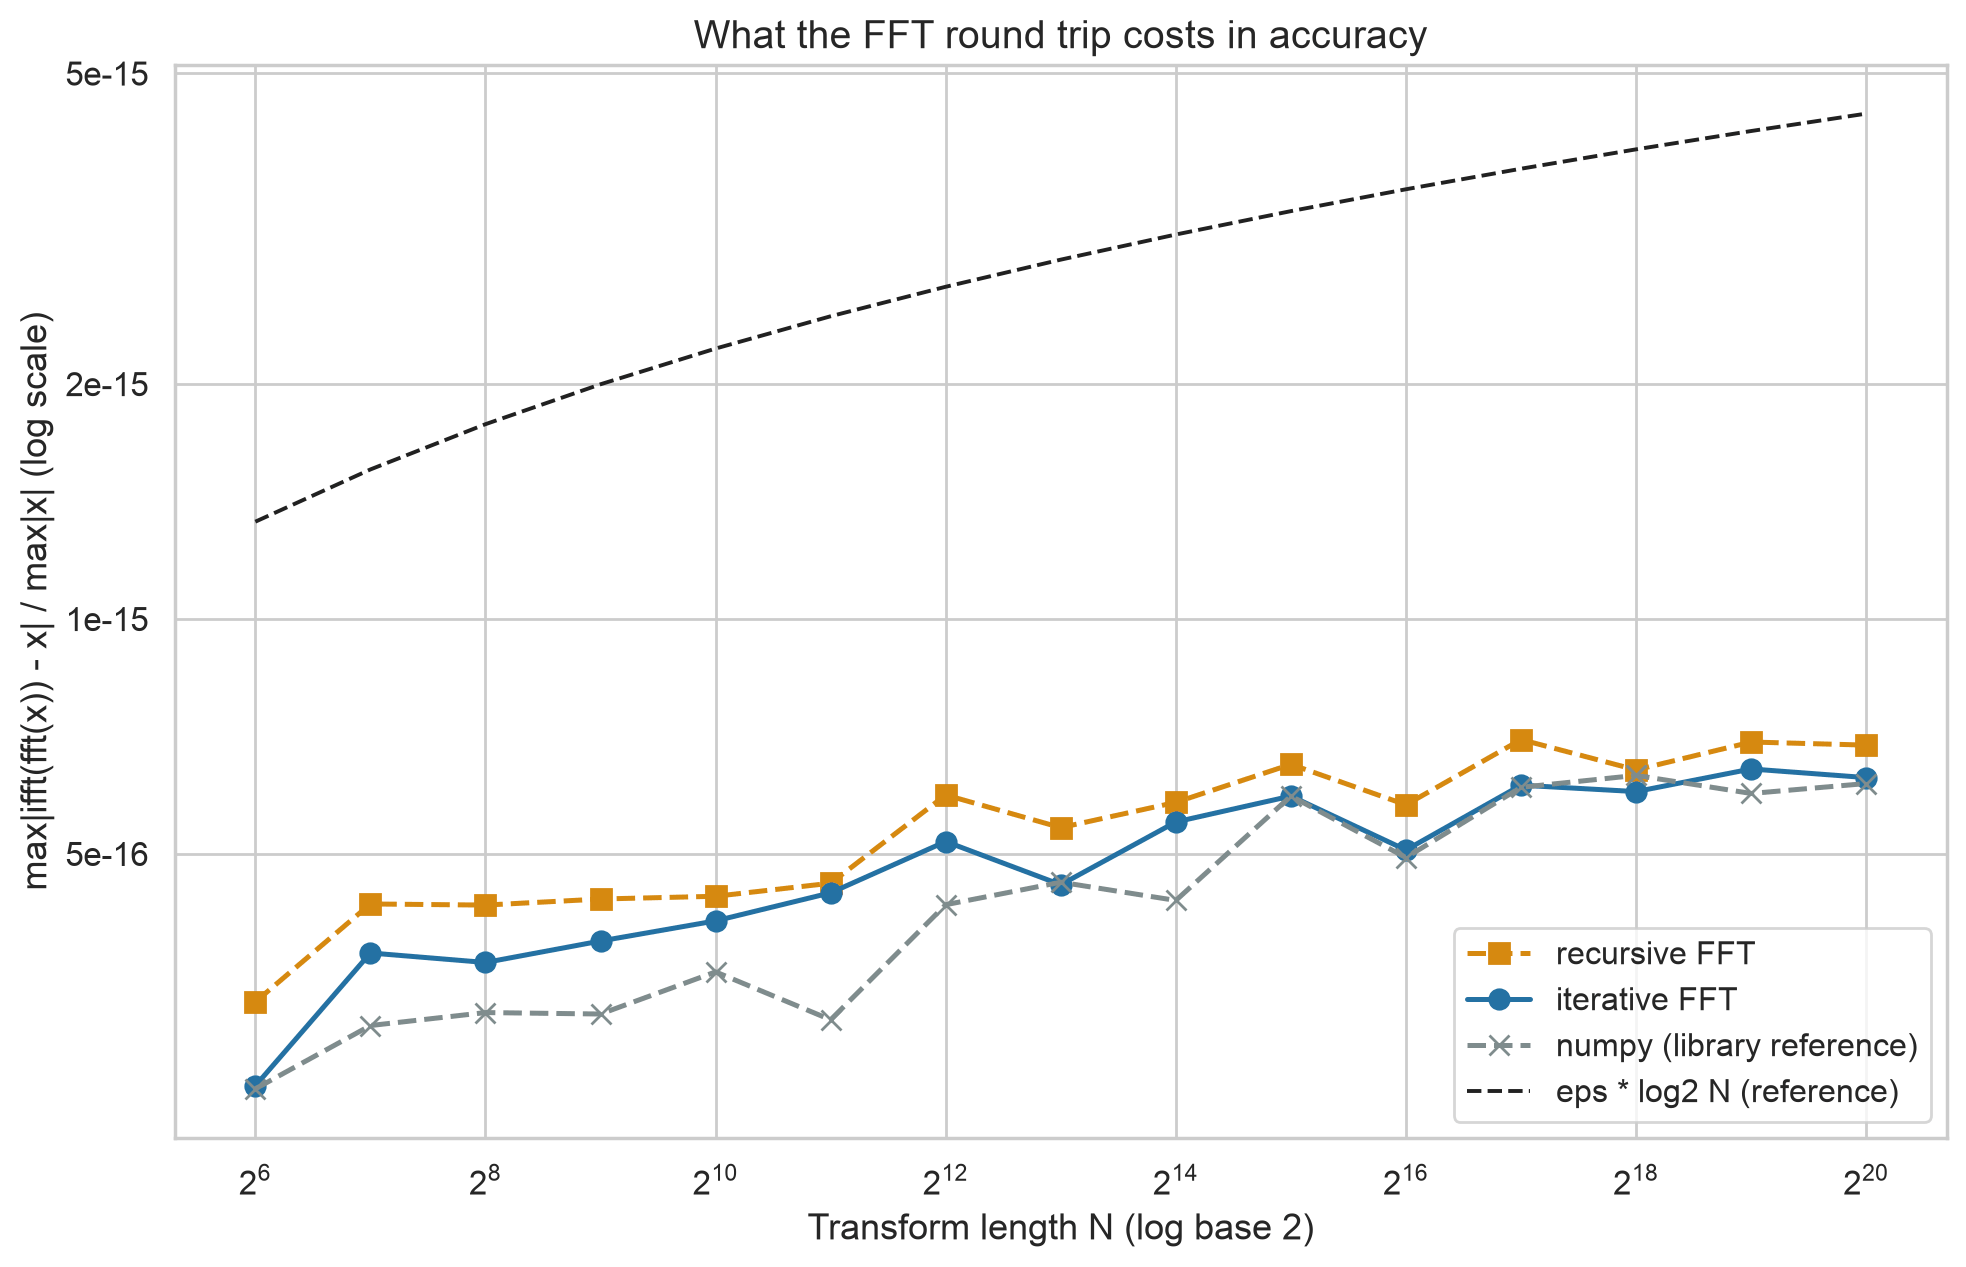
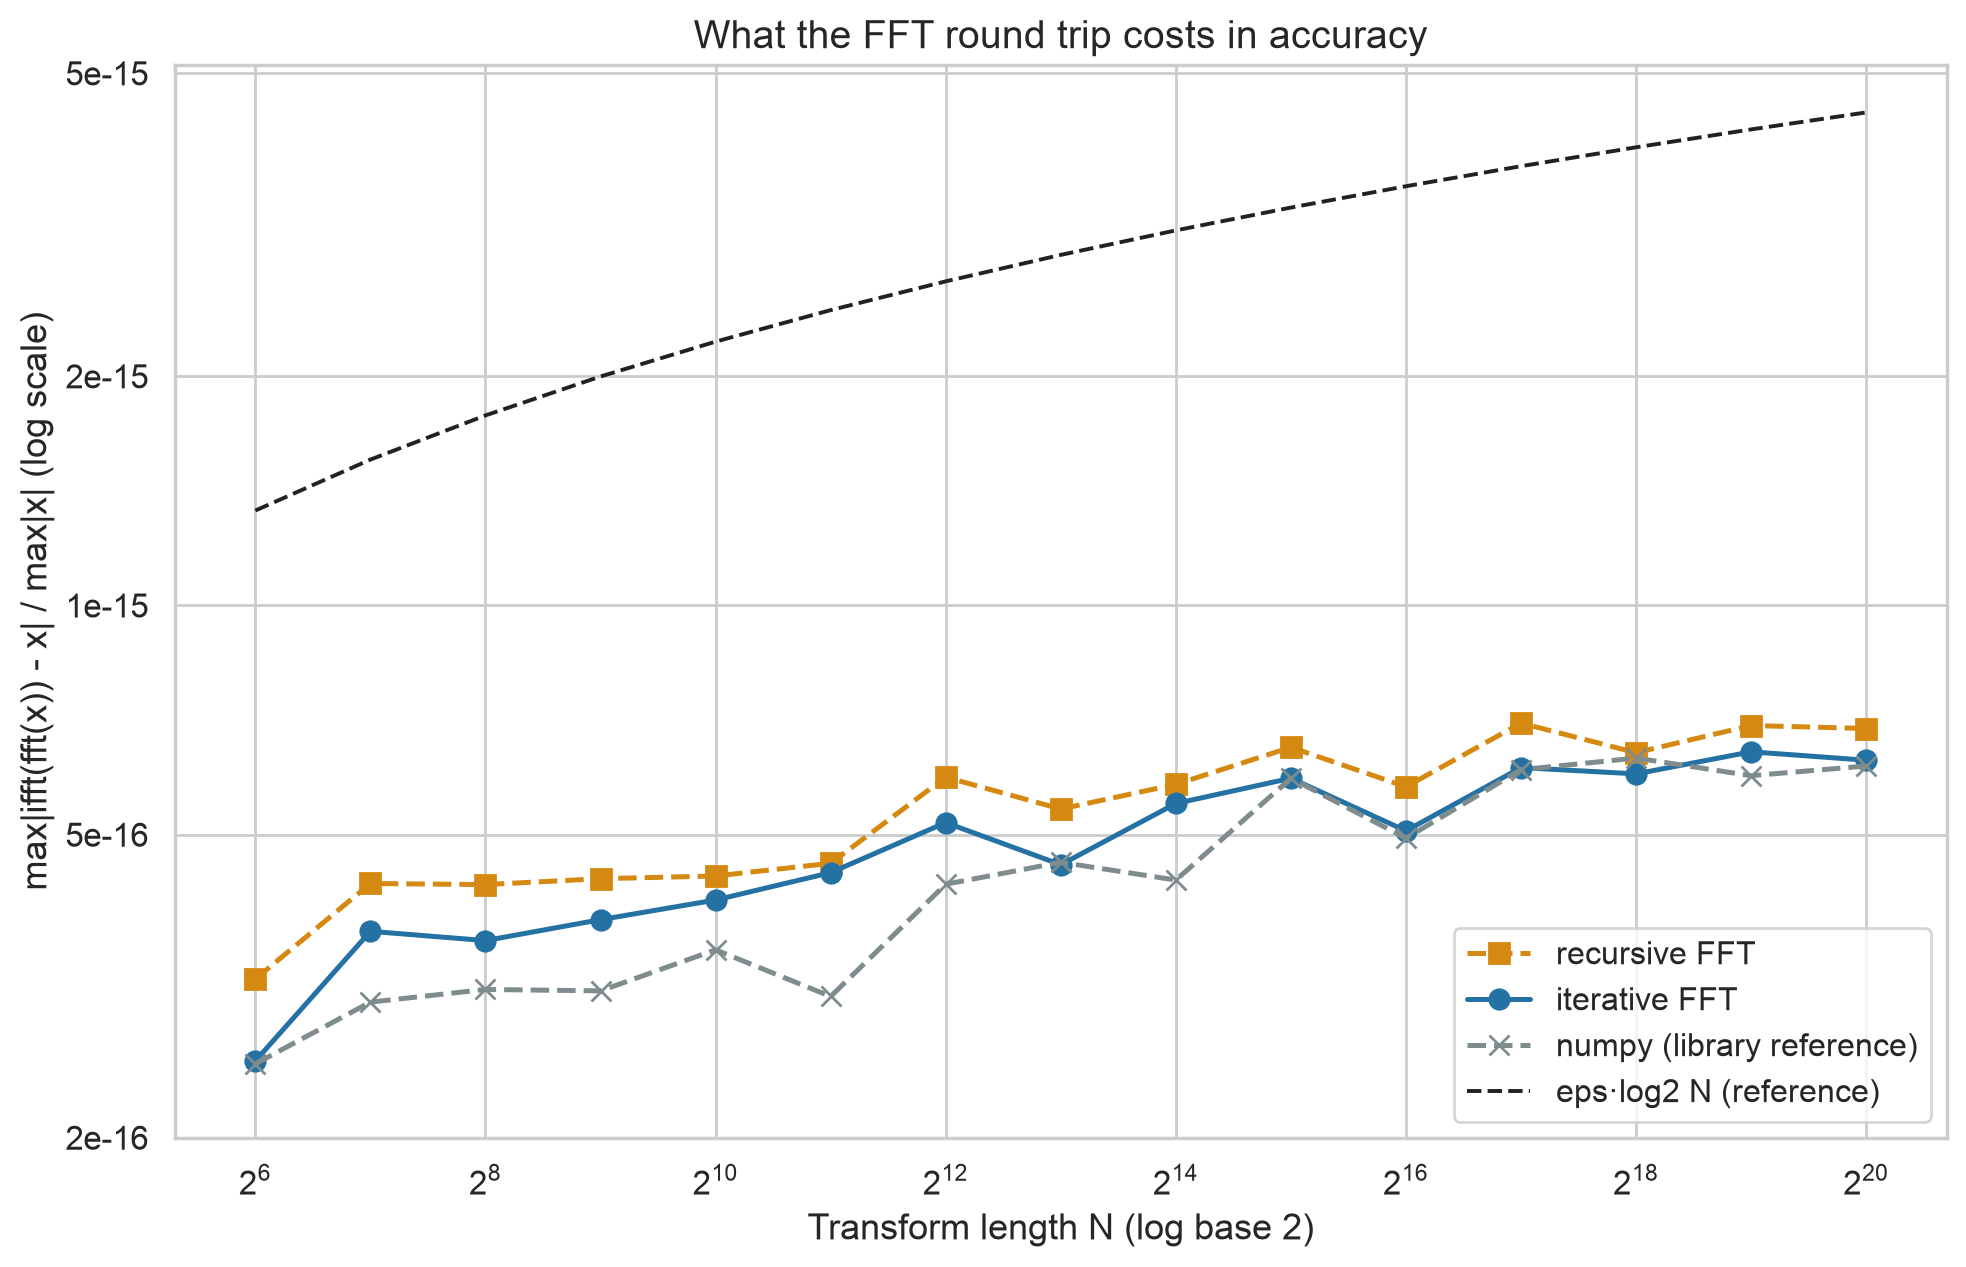
fix: label matrix caps as text, move stability legends under the panels, match figure notation to the report

diff --git a/src/utils/visualization.py b/src/utils/visualization.py
@@ -5774,8 +5774,10 @@ _W12_STYLE: Dict[str, Dict[str, Any]] = {
     "numpy_cond_2": {"marker": "+", "linestyle": ":", "color": "#212121", "label": "numpy, 2-norm (reference)"},
 }
 
-#: Font sizes (points, before the PDF scales the figure down).
+#: Font sizes (points, before the PDF scales the figure down). The three-panel
+#: stability figure prints at about 0.6 of its size, so it gets larger ones.
 _W12_FONT = {"title": 14, "label": 13, "tick": 12, "legend": 11.5}
+_W12_FONT_WIDE = {"title": 16, "label": 14.5, "tick": 13.5, "legend": 12.5}
 
 
 def save_png_under_limit(fig: Figure, save_path: Optional[str], limit_bytes: int = 100_000,
@@ -5828,12 +5830,13 @@ def save_png_under_limit(fig: Figure, save_path: Optional[str], limit_bytes: int
     return used
 
 
-def _w12_fonts(ax: Axes) -> None:
-    """Apply the Week 12 tick and axis-label sizes to one axes."""
-    ax.tick_params(labelsize=_W12_FONT["tick"])
-    ax.xaxis.label.set_size(_W12_FONT["label"])
-    ax.yaxis.label.set_size(_W12_FONT["label"])
-    ax.title.set_size(_W12_FONT["title"])
+def _w12_fonts(ax: Axes, sizes: Optional[Dict[str, float]] = None) -> None:
+    """Apply the Week 12 tick, axis-label and title sizes to one axes."""
+    sizes = sizes or _W12_FONT
+    ax.tick_params(labelsize=sizes["tick"])
+    ax.xaxis.label.set_size(sizes["label"])
+    ax.yaxis.label.set_size(sizes["label"])
+    ax.title.set_size(sizes["title"])
 
 
 def _w12_line(ax: Axes, rows: Sequence[Dict[str, Any]], method: str, field: str,
@@ -5929,12 +5932,14 @@ def plot_fft_roundtrip_error(rows: Sequence[Dict[str, Any]], save_path: Optional
     if ns:
         eps = float(np.finfo(float).eps)
         ax.plot(ns, [eps * math.log2(n) for n in ns], color="#212121", linestyle="--", linewidth=1.4,
-                label="eps * log2 N (reference)")
+                label="eps\u00b7log2 N (reference)")
         ax.legend(loc="lower right", fontsize=_W12_FONT["legend"])
         ticks = [m * 10.0 ** e for e in range(-18, -12) for m in (1, 2, 5)]
         ax.yaxis.set_major_locator(FixedLocator(ticks))
         ax.yaxis.set_minor_locator(NullLocator())
         ax.yaxis.set_major_formatter(FuncFormatter(lambda v, _: f"{v:.0e}"))
+        low, high = ax.get_ylim()
+        ax.set_ylim(min(low, 2e-16), high)  # so the lowest points sit above a labelled tick
     ax.set_xlabel("Transform length N (log base 2)")
     ax.set_ylabel("max|ifft(fft(x)) - x| / max|x| (log scale)")
     ax.set_title("What the FFT round trip costs in accuracy")
@@ -5975,21 +5980,14 @@ def plot_matrix_runtime(rows: Sequence[Dict[str, Any]], caps: Sequence[Dict[str,
             [r["n"] for r in mine], [r["mean_time_s"] for r in mine], tail=3)
         label = _W12_STYLE[method]["label"] + (f" (slope {slope:.2f})" if slope is not None else "")
         _w12_line(ax, rows, method, "mean_time_s", label)
-    capped: Dict[str, List[int]] = {}
-    for cap in caps:
-        capped.setdefault(cap["method"], []).append(int(cap["n"]))
-    for method, sizes in capped.items():
-        # x in data coordinates, y as a fraction of the axes: the mark is not a time.
-        ax.scatter(sizes, [0.96] * len(sizes), marker="x", s=110, linewidths=2.2,
-                   color=_W12_STYLE[method]["color"], transform=ax.get_xaxis_transform(), clip_on=False,
-                   zorder=4, label=f"{_W12_STYLE[method]['label']}: not run at n = "
-                                   f"{', '.join(str(s) for s in sorted(sizes))} (configured cap)")
     ax.set_xscale("log", base=2)
     ax.set_yscale("log")
-    if rows:
-        # Two decades of headroom keep the cap marks and the legend clear of the data.
-        low, high = ax.get_ylim()
-        ax.set_ylim(low, high * 100.0)
+    for cap in caps:
+        # Text just above the x axis (x in data units, y as a fraction of the
+        # axes), not a marker at some time: a capped size has no time.
+        short = _W12_STYLE[cap["method"]]["label"].split(" ")[0]
+        ax.text(cap["n"], 0.03, f"{short}:\nnot run\n(cap)", transform=ax.get_xaxis_transform(),
+                ha="center", va="bottom", fontsize=_W12_FONT["legend"], color=_W12_STYLE[cap["method"]]["color"])
     ax.set_xlabel("Matrix size n (n x n, log base 2)")
     ax.set_ylabel("Mean time per multiply (s, log scale)")
     ax.set_title("Matrix multiplication: slopes over the three largest sizes")
@@ -6025,7 +6023,7 @@ def plot_stability(cond_rows: Sequence[Dict[str, Any]], solve_rows: Sequence[Dic
         3
         >>> plt.close(fig)
     """
-    fig, (a, b, c) = plt.subplots(1, 3, figsize=(15, 5.6))
+    fig, (a, b, c) = plt.subplots(1, 3, figsize=(12.5, 5.0))
     for method in ("cond_estimate_1", "numpy_cond_1", "cond2_power", "numpy_cond_2"):
         _w12_line(a, cond_rows, method, "cond")
     a.set_yscale("log")
@@ -6038,25 +6036,23 @@ def plot_stability(cond_rows: Sequence[Dict[str, Any]], solve_rows: Sequence[Dic
     if pivot:
         eps = float(np.finfo(float).eps)
         b.plot([r["n"] for r in pivot], [r["cond"] * eps for r in pivot], color="#212121", linestyle="--",
-               linewidth=1.4, label="cond(H) * eps (reference)")
+               linewidth=1.4, label="cond(H)\u00b7eps (reference)")
     b.set_yscale("log")
     b.set_xlabel("Hilbert matrix size n")
-    b.set_ylabel("Relative error of solve, max norm (log scale)")
-    b.set_title("(b) Solve error and cond(H) * eps")
+    b.set_ylabel("max|x - 1| for H x = H\u00b71 (log scale)")
+    b.set_title("(b) Solve error and cond(H)\u00b7eps")
     for method in ("cgs", "mgs", "householder"):
         _w12_line(c, orth_rows, method, "orth_loss")
     c.set_yscale("log")
     c.set_xlabel("Hilbert matrix size n")
-    c.set_ylabel("||Q^T Q - I||_F (log scale)")
+    c.set_ylabel(r"$\|Q^{T}Q - I\|_F$ (log scale)")
     c.set_title("(c) Orthogonality loss of Q")
-    # Panel (c)'s curves fill its top left, so its legend sits low on the right,
-    # in the empty band between Householder and the Gram-Schmidt curves.
-    places = {a: {"loc": "upper left"}, b: {"loc": "upper left"},
-              c: {"loc": "lower right", "bbox_to_anchor": (1.0, 0.1)}}
+    # Each legend sits under its panel, where it cannot cover a point.
     for ax, rows in ((a, cond_rows), (b, solve_rows), (c, orth_rows)):
-        _w12_fonts(ax)
+        ax.set_xticks(range(2, 13, 2))
+        _w12_fonts(ax, _W12_FONT_WIDE)
         if rows:
-            ax.legend(fontsize=_W12_FONT["legend"], **places[ax])
+            ax.legend(fontsize=_W12_FONT_WIDE["legend"], loc="upper center", bbox_to_anchor=(0.5, -0.17))
     fig.tight_layout()
     save_png_under_limit(fig, save_path)
     return fig

diff --git a/src/fft_analyzer/visualization/plots.py b/src/fft_analyzer/visualization/plots.py
@@ -514,15 +514,15 @@ def plot_image_grid(
         vmin, vmax = (0.0, 255.0) if in_range else (low, high if high > low else low + 1.0)
         shown = ax.imshow(gray, cmap="gray", vmin=vmin, vmax=vmax, interpolation="nearest")
         ax.grid(False)
-        ax.set_title(str(titles[index]), fontsize=13)
-        ax.tick_params(labelsize=10)
+        ax.set_title(str(titles[index]), fontsize=15)
+        ax.tick_params(labelsize=12.5)
         if c == 0:
-            ax.set_ylabel("row (pixels)", fontsize=11)
+            ax.set_ylabel("row (pixels)", fontsize=13.5)
         if index + cols >= count:
-            ax.set_xlabel("column (pixels)", fontsize=11)
+            ax.set_xlabel("column (pixels)", fontsize=13.5)
         bar = fig.colorbar(shown, ax=ax, shrink=0.85, pad=0.02)
-        bar.ax.tick_params(labelsize=10)
-        bar.set_label("gray level (0-255)" if in_range else "value (own range)", fontsize=11)
+        bar.ax.tick_params(labelsize=12.5)
+        bar.set_label("gray level (0-255)" if in_range else "value (own range)", fontsize=13)
     _save_figure(fig, save_path)
     return fig
 
@@ -687,6 +687,6 @@ def plot_compression_tradeoff(
         ax.set_ylim(low - 0.1 * rise, high + 0.08 * rise)
     ax.set_xlabel("Non-zero quantized coefficients (fraction of all)")
     ax.set_ylabel("PSNR (dB)")
-    ax.set_title("Compression trade-off: quality vs. coefficients kept")
+    ax.set_title("Compression trade-off: PSNR vs. coefficients kept (labels: JPEG quality)")
     _save_figure(fig, save_path)
     return fig
